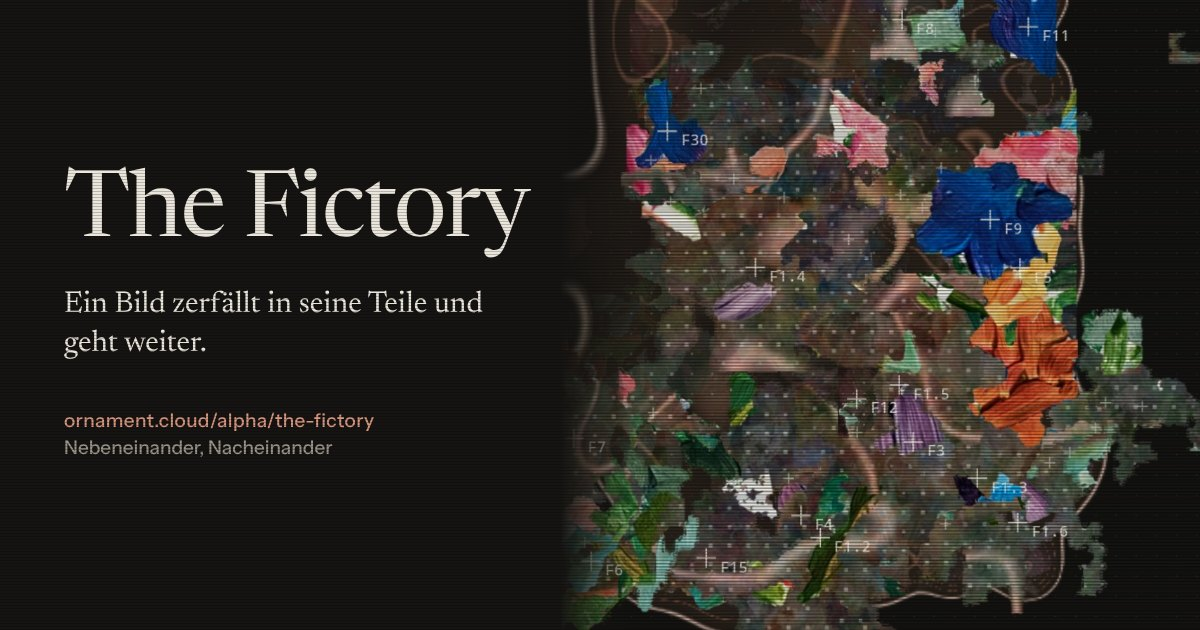
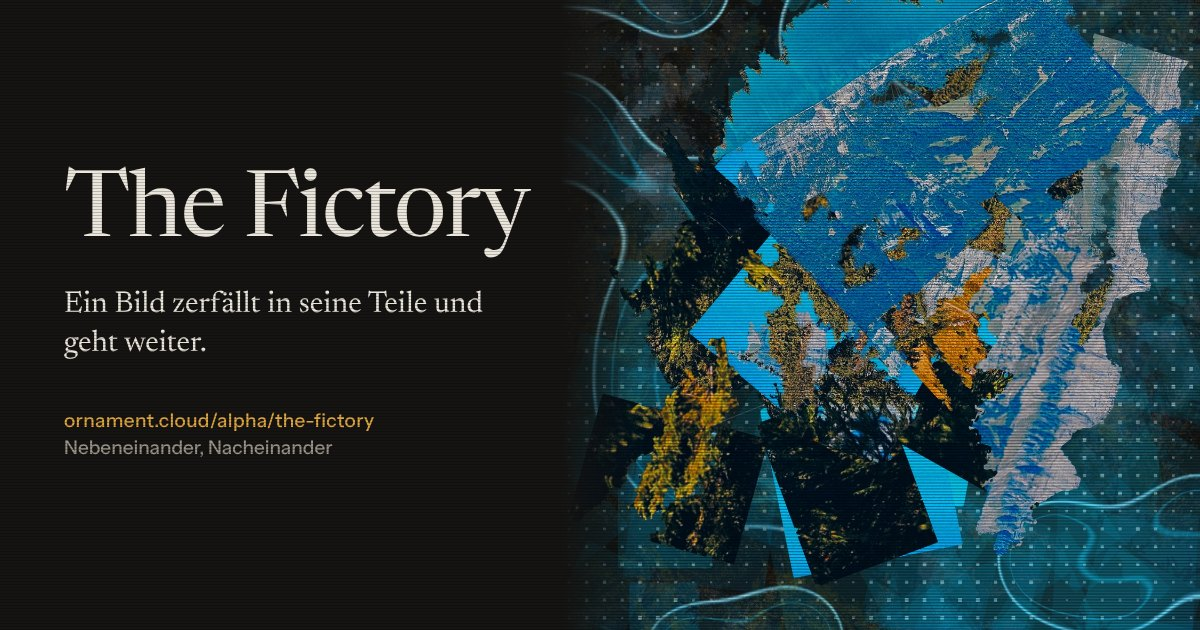
The Fictory: neues Motiv für Beitragskarte und Vorschaukarte zum Teilen
Standbild in Blau und Ocker, ausgewählt von Christian (src/the-fictory/vorschau-quelle.jpg, 1200 × 1600), ersetzt das
Bildschirmfoto. Kartenbild 640 × 800 (unter 150 KB), Teilen 1200 × 630 mit ockerfarbener Adresse; Bildbeschreibung angepasst.

Claude-Session: https://claude.ai/code/session_01CjKzZciWjd5bsgTiB1fWZ9

diff --git a/alpha/the-fictory/index.html b/alpha/the-fictory/index.html
@@ -17,7 +17,7 @@
   <meta property="og:image" content="https://ornament.cloud/alpha/the-fictory/og-the-fictory.jpg">
   <meta property="og:image:width" content="1200">
   <meta property="og:image:height" content="630">
-  <meta property="og:image:alt" content="The Fictory: links der Titel und der Satz «Ein Bild zerfällt in seine Teile und geht weiter.», rechts ein zerlegtes Bild mit Blumenfarben auf dunklem Grund, mit Fadenkreuzen, Namen der Teile und Feldlinien.">
+  <meta property="og:image:alt" content="The Fictory: links der Titel und der Satz «Ein Bild zerfällt in seine Teile und geht weiter.», rechts ein Standbild der Animation: zerlegte, gedrehte Teile in Blau, Weiss und Ocker auf dunklem Grund, mit leuchtenden Feldlinien und Punktraster.">
   <meta name="twitter:card" content="summary_large_image">
   <meta name="twitter:title" content="The Fictory">
   <meta name="twitter:description" content="Leg ein Bild auf die Werkbank: Es zerfällt in seine Teile, ordnet sich neu, hinterlässt Spuren und findet nie ganz zurück.">

diff --git a/README.md b/README.md
@@ -147,7 +147,7 @@ Alles liegt auf dem eigenen Server – es werden keine Dateien von claude.ai, CD
   Bewegung (Rückmeldung mit Video vom Samsung Galaxy S23: «Abfolge als Bild» zu schnell, «Wirksame Spuren» rucklig): In Schritt 2 dreht jedes Teil auf dem kürzesten Weg (vorher bis zu zwanzig Umdrehungen), länger und weicher; Schritt 3 hat sechs Runden mit kürzeren Wegen, die Teile gleiten durch statt an jedem Wegpunkt anzuhalten;
   in Schritt 4 werden die Kopplungen eingeblendet, und kein Teil bewegt sich je Schritt weiter als 0,9 % der Bildhöhe oder dreht sich mehr als knapp 3° (vorher ein Sprung um 35 % am Beginn).
   Dichte (Rückmeldung «Phasen 2 und 3 zu viel Leerraum, jedesmal ähnlich»): Schritt 2 ist eine Zeitachse entlang der Hauptachse (Ankunftsfolge längs, Lage quer wie im Original, volle Grösse, überlagert) statt einer Spirale kleiner Teile; in Schritt 3 bleibt jedes Teil an seine Herkunftsstelle gebunden, die Spuren verdichten sich in der Gestalt des Originals.
-  Texte gekürzt (10. Oktober 2026); Beitragskarte zuoberst auf «Web» (`assets/vorschau-the-fictory.jpg`, 640 × 800) und Vorschaukarte zum Teilen (`alpha/the-fictory/og-the-fictory.jpg`, 1200 × 630, Open Graph und X), beide aus einem Bildschirmfoto der Animation von Christian (`src/the-fictory/vorschau-quelle.jpg`) mit `NODE_PATH=$(npm root -g) node tools/fictory-og.mjs`.
+  Texte gekürzt (10. Oktober 2026); Beitragskarte zuoberst auf «Web» (`assets/vorschau-the-fictory.jpg`, 640 × 800) und Vorschaukarte zum Teilen (`alpha/the-fictory/og-the-fictory.jpg`, 1200 × 630, Open Graph und X), beide aus einem Standbild der Animation, ausgewählt von Christian (`src/the-fictory/vorschau-quelle.jpg`) mit `NODE_PATH=$(npm root -g) node tools/fictory-og.mjs`.
   Einstieg (Wunsch von Christian: «ein neuer User findet Schritt 4 nicht vor lauter Texten»): die fünf Schritte in Kürze unter dem Titel, «Erzeugen» nach dem Laden direkt auf der Werkbank, Schritt 2 «Analyse prüfen» zugeklappt mit einer Zeile Kurzbefund.
   Regel R6 wirkt seither im Feld: An den Herkunftsstellen der Figuren wächst es nicht (Regeltexte und jev-Tabelle am 10. Oktober 2026 neu erzeugt).
   Jede Operation plant aus dem Zustand, den die vorige hinterlassen hat (Ankunftsreihenfolge, Spurenfeld, wucherndes Feld, Kopplungen); die fünf Standbilder sind die Schlüsselzustände an den Stationsenden (Schritte 225, 390, 570, 735, 900), als PNG in höherer Auflösung aus demselben Zustand gezeichnet.
